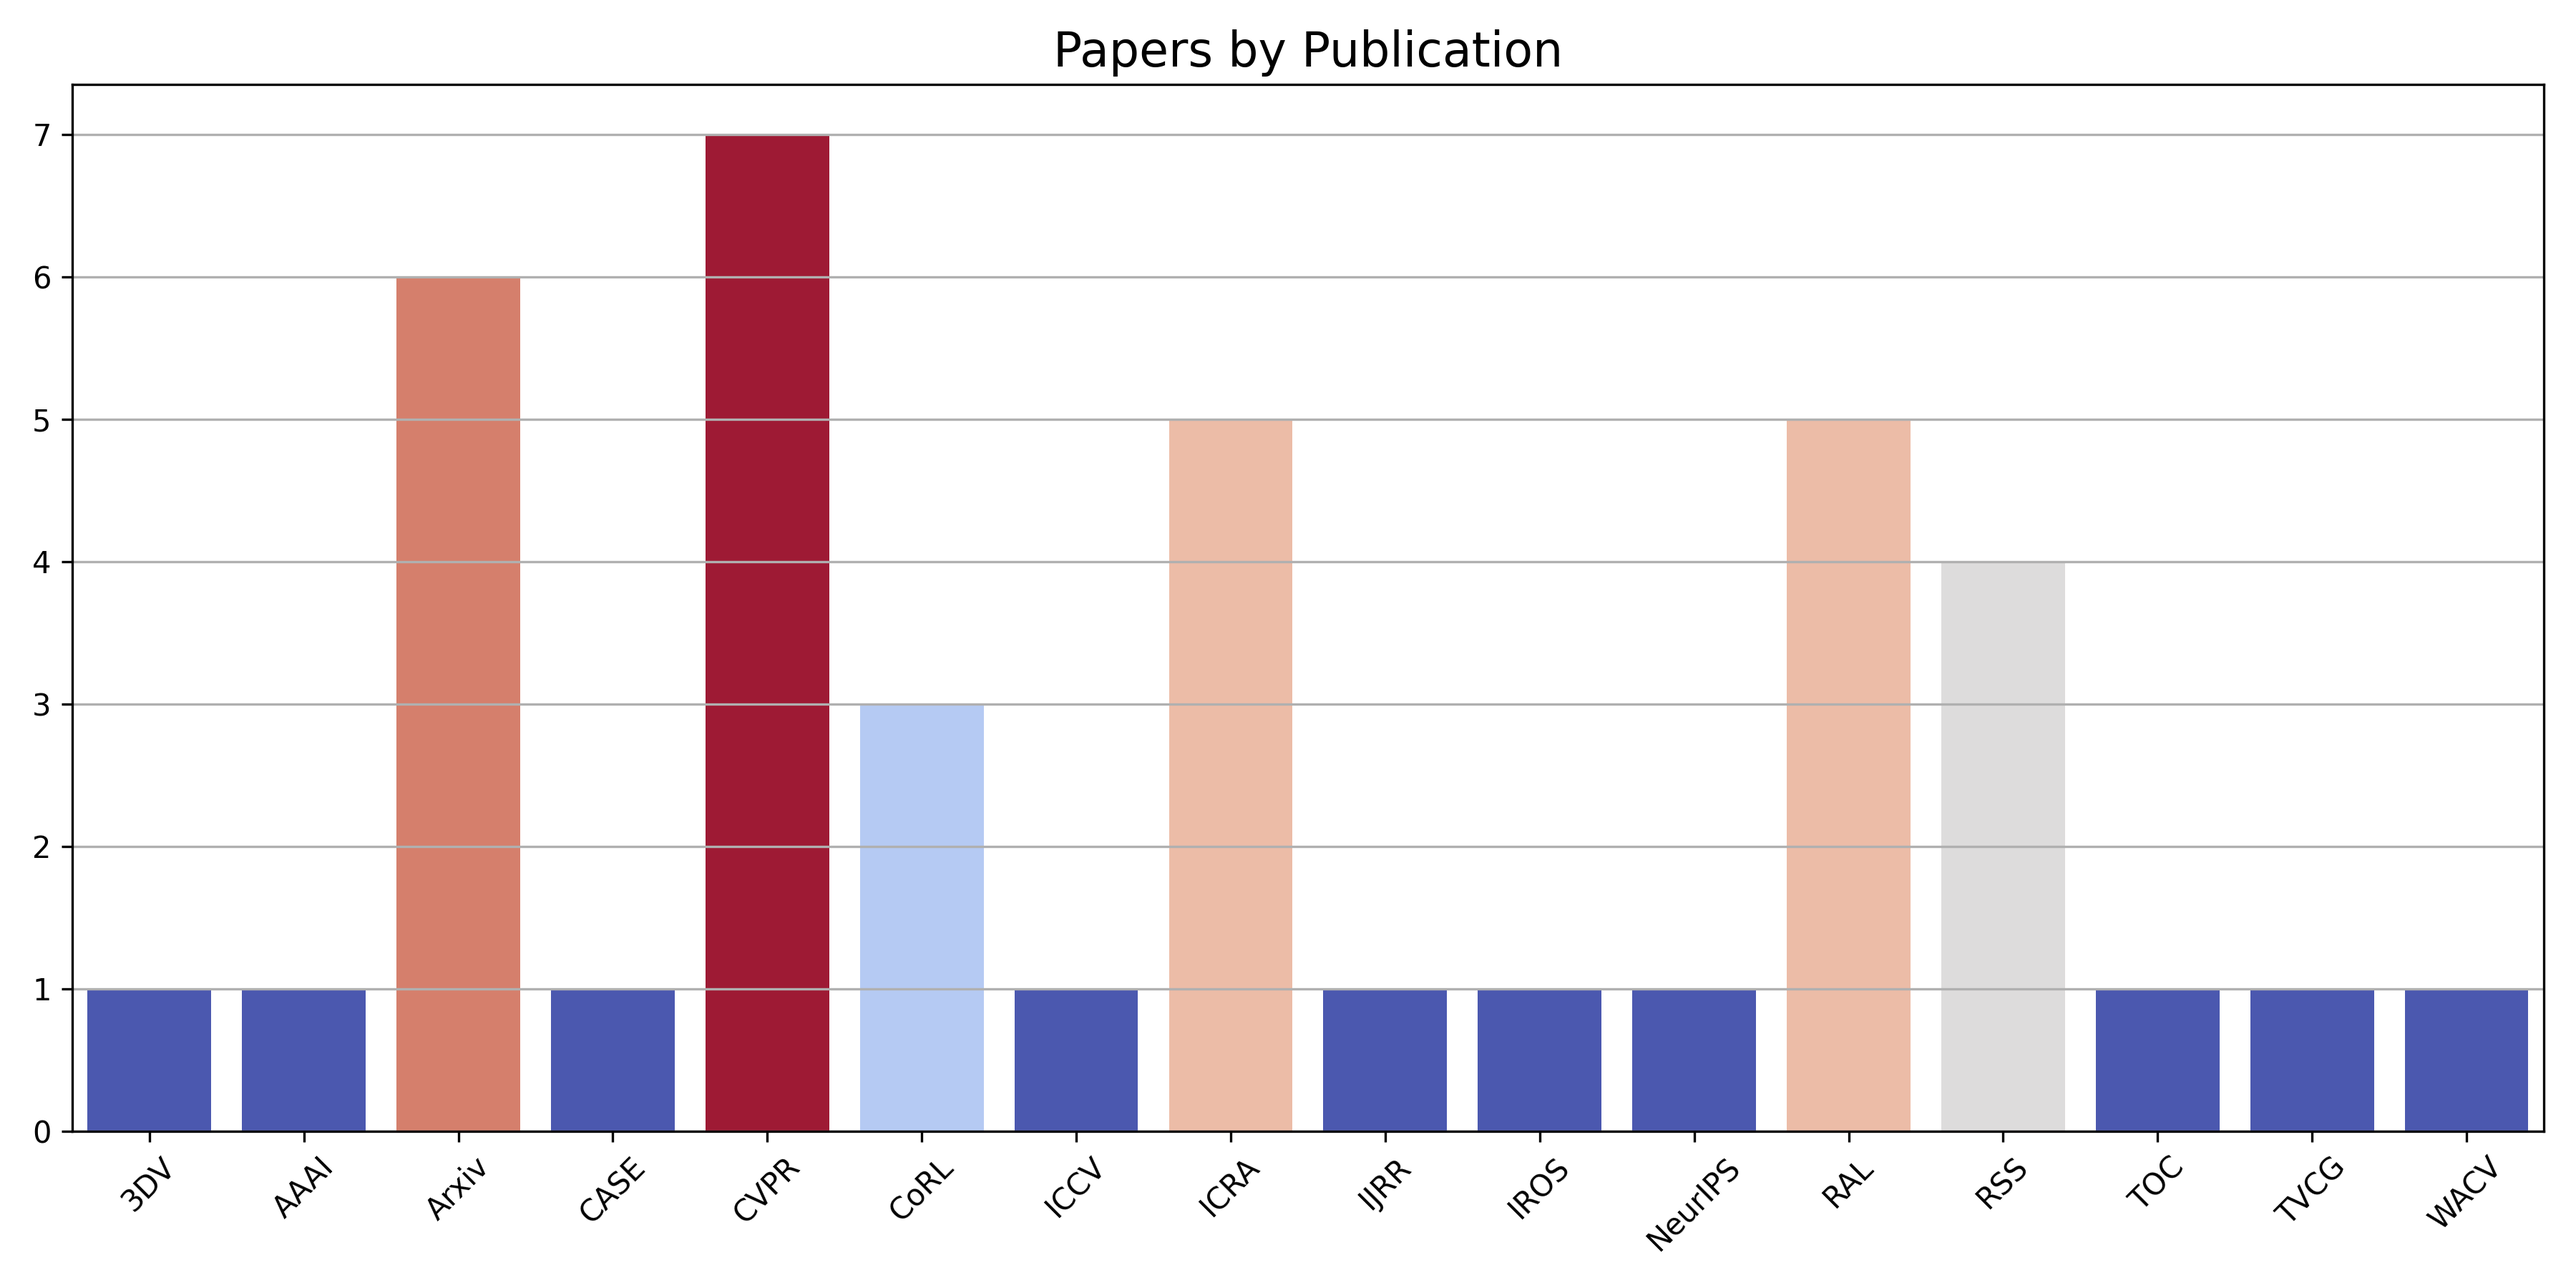
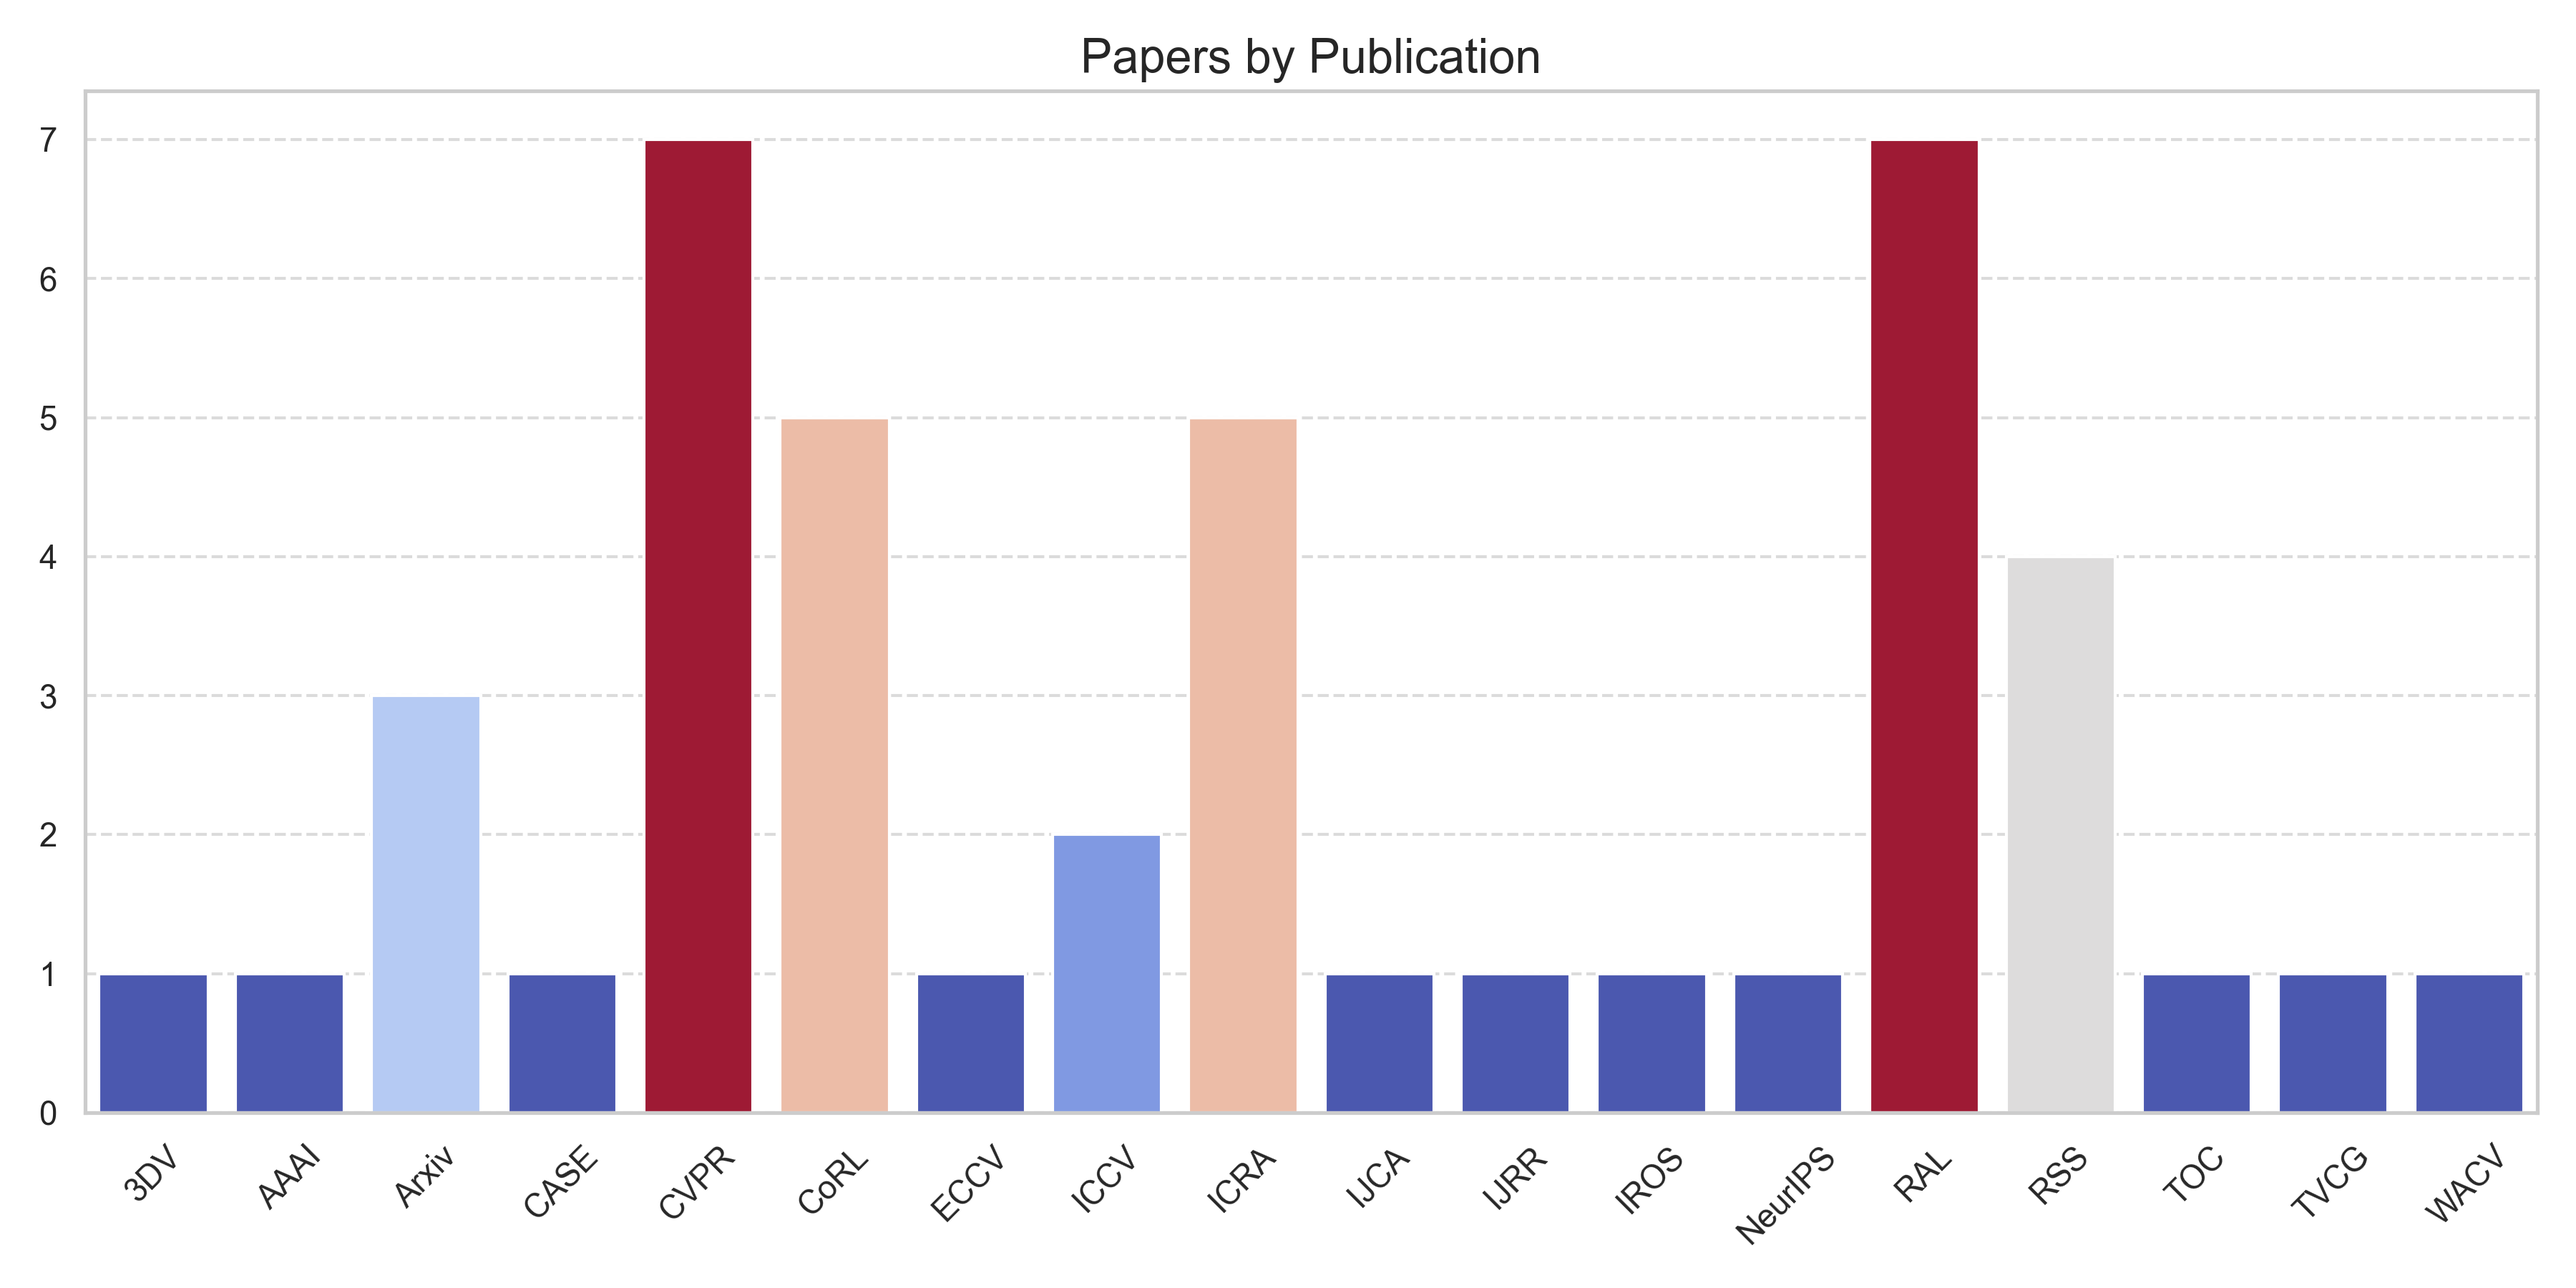
papers update

diff --git a/README.md b/README.md
@@ -20,9 +20,10 @@ This is a curated list of papers on 3D Scene Graphs (3DSGs) generation and appli
 | 2021-06 | CVPR21        | [Exploiting Edge-Oriented Reasoning for 3D Point-based Scene Graph Analysis](http://arxiv.org/abs/2103.05558v2)                    | USYD                | [project](https://sggpoint.github.io/), [github](https://github.com/chaoyivision/SGGpoint)                |
 | 2022-07 | RSS22         | [Extracting Zero-shot Common Sense from Large Language Models for Robot 3D Scene Understanding](http://arxiv.org/abs/2206.04585v2) | MIT                 | -                                                                                                         |
 | 2023-05 | ICRA23        | [3D VSG: Long-term Semantic Scene Change Prediction through 3D Variable Scene Graphs](http://arxiv.org/abs/2209.07896v2)           | ETH                 | [project](https://github.com/ethz-asl/3d_vsg)                                                             |
-| 2024-02 | Arxiv         | [RoboEXP: Action-Conditioned Scene Graph via Interactive Exploration for Robotic Manipulation](http://arxiv.org/abs/2402.15487v1)  | UIUC                | [project](https://jianghanxiao.github.io/roboexp-web/), [github](https://github.com/Jianghanxiao/RoboEXP) |
-| 2024-05 | Arxiv         | [Long-Term Human Trajectory Prediction using 3D Dynamic Scene Graphs](http://arxiv.org/abs/2405.00552v1)                           | MIT                 | [project](https://github.com/MIT-SPARK/LP2)                                                               |
-| 2024-09 | Arxiv         | [SpotLight: Robotic Scene Understanding through Interaction and Affordance Detection](http://arxiv.org/abs/2409.11870v1)           | ETH                 | [project](https://timengelbracht.github.io/SpotLight/)                                                    | 
+| 2024-05 | RAL24         | [Long-Term Human Trajectory Prediction using 3D Dynamic Scene Graphs](http://arxiv.org/abs/2405.00552v1)                           | MIT                 | [project](https://github.com/MIT-SPARK/LP2)                                                               |
+| 2024-09 | Arxiv         | [SpotLight: Robotic Scene Understanding through Interaction and Affordance Detection](http://arxiv.org/abs/2409.11870v1)           | ETH                 | [project](https://timengelbracht.github.io/SpotLight/)                                                    |
+| 2024-10 | ECCV24        | [SceneGraphLoc: Cross-Modal Coarse Visual Localization on 3D Scene Graphs](https://arxiv.org/abs/2404.00469)                       | ETH                 | [project](https://scenegraphloc.github.io/)                                                               |
+| 2024-11 | CoRL24        | [RoboEXP: Action-Conditioned Scene Graph via Interactive Exploration for Robotic Manipulation](http://arxiv.org/abs/2402.15487v1)  | UIUC                | [project](https://jianghanxiao.github.io/roboexp-web/), [github](https://github.com/Jianghanxiao/RoboEXP) | 
 
 ## Generation and Mapping
 | Date    | Publication   | Paper                                                                                                                                                                                                                                                                         | Institute (first)   | Extra                                                                                                                                   |
@@ -37,14 +38,16 @@ This is a curated list of papers on 3D Scene Graphs (3DSGs) generation and appli
 | 2023-06 | CVPR23        | [3D Spatial Multimodal Knowledge Accumulation for Scene Graph Prediction in Point Cloud](https://ieeexplore.ieee.org/document/10204093)                                                                                                                                       | XDU                 | [project](https://cvpr.thecvf.com/virtual/2023/poster/23209)                                                                            |
 | 2023-08 | CASE23        | [3D Scene Graph Prediction on Point Clouds Using Knowledge Graphs](http://arxiv.org/abs/2308.06719v1)                                                                                                                                                                         | UCSD                | -                                                                                                                                       |
 | 2023-08 | RAL23         | [S-Graphs+: Real-time Localization and Mapping leveraging Hierarchical Representations](http://arxiv.org/abs/2212.11770v3)                                                                                                                                                    | UniLu               | [project](https://snt-arg.github.io/s_graphs_docker/), [github](https://github.com/snt-arg/s_graphs_docker)                             |
+| 2023-10 | ICCV23        | [SGAligner: 3D Scene Alignment with Scene Graphs](https://openaccess.thecvf.com/content/ICCV2023/html/Sarkar_SGAligner_3D_Scene_Alignment_with_Scene_Graphs_ICCV_2023_paper.html)                                                                                             | ETH                 | [project](https://sayands.github.io/sgaligner/)                                                                                         |
 | 2023-11 | CoRL23        | [Context-Aware Entity Grounding with Open-Vocabulary 3D Scene Graphs](http://arxiv.org/abs/2309.15940v1)                                                                                                                                                                      | Rutgers             | [project](https://ovsg-l.github.io/), [github](https://github.com/changhaonan/OVSG)                                                     |
 | 2024-01 | WACV24        | [SGRec3D: Self-Supervised 3D Scene Graph Learning via Object-Level Scene Reconstruction](http://arxiv.org/abs/2309.15702v2)                                                                                                                                                   | Bosch               | [project](https://kochsebastian.com/sgrec3d)                                                                                            |
 | 2024-02 | IJRR24        | [Foundations of Spatial Perception for Robotics: Hierarchical Representations and Real-time Systems](https://arxiv.org/abs/2305.07154)                                                                                                                                        | MIT                 | [project](https://github.com/MIT-SPARK/Hydra)                                                                                           |
 | 2024-02 | AAAI24        | [SGFormer: Semantic Graph Transformer for Point Cloud-based 3D Scene Graph Generation](http://arxiv.org/abs/2303.11048v3)                                                                                                                                                     | BJUT                | [project](https://github.com/Andy20178/SGFormer)                                                                                        |
 | 2024-03 | RAL24         | [Language-Grounded Dynamic Scene Graphs for Interactive Object Search with Mobile Manipulation](http://arxiv.org/abs/2403.08605v4)                                                                                                                                            | UniFreiburg         | [project](http://moma-llm.cs.uni-freiburg.de/), [github](https://github.com/robot-learning-freiburg/MoMa-LLM)                           |
 | 2024-03 | 3DV24         | [Lang3DSG: Language-based contrastive pre-training for 3D Scene Graph prediction](http://arxiv.org/abs/2310.16494v1)                                                                                                                                                          | Bosch               | [project](https://kochsebastian.com/lang3dsg)                                                                                           |
-| 2024-04 | Arxiv         | [Clio: Real-time Task-Driven Open-Set 3D Scene Graphs](http://arxiv.org/abs/2404.13696v3)                                                                                                                                                                                     | MIT                 | [project](https://github.com/MIT-SPARK/Clio)                                                                                            |
+| 2024-04 | RAL24         | [Clio: Real-time Task-Driven Open-Set 3D Scene Graphs](http://arxiv.org/abs/2404.13696v3)                                                                                                                                                                                     | MIT                 | [project](https://github.com/MIT-SPARK/Clio)                                                                                            |
 | 2024-05 | ICRA24        | [ConceptGraphs: Open-Vocabulary 3D Scene Graphs for Perception and Planning](http://arxiv.org/abs/2309.16650v1)                                                                                                                                                               | UToronto            | [project](https://concept-graphs.github.io/), [github](https://github.com/concept-graphs/concept-graphs)                                |
+| 2024-05 | IJCARS        | [Holistic OR domain modeling: a semantic scene graph approach](https://link.springer.com/article/10.1007/s11548-023-03022-w)                                                                                                                                                  | TUM                 | [project](https://github.com/egeozsoy/4D-OR)                                                                                            |
 | 2024-06 | CVPR24        | [Open3DSG: Open-Vocabulary 3D Scene Graphs from Point Clouds with Queryable Objects and Open-Set Relationships](http://arxiv.org/abs/2402.12259v2)                                                                                                                            | Bosch               | [project](https://kochsebastian.com/open3dsg), [github](https://github.com/boschresearch/Open3DSG)                                      |
 | 2024-06 | RAL24         | [Indoor and Outdoor 3D Scene Graph Generation via Language-Enabled Spatial Ontologies](http://arxiv.org/abs/2312.11713v2)                                                                                                                                                     | MIT                 | -                                                                                                                                       |
 | 2024-06 | CVPR24        | [CLIP-Driven Open-Vocabulary 3D Scene Graph Generation via Cross-Modality Contrastive Learning](https://openaccess.thecvf.com/content/CVPR2024/papers/Chen_CLIP-Driven_Open-Vocabulary_3D_Scene_Graph_Generation_via_Cross-Modality_Contrastive_Learning_CVPR_2024_paper.pdf) | ECNU                | -                                                                                                                                       |
@@ -66,13 +69,14 @@ This is a curated list of papers on 3D Scene Graphs (3DSGs) generation and appli
 |:--------|:--------------|:-------------------------------------------------------------------------------------------------------------------------------------|:--------------------|:---------------------------------------------------------------------------------------------------------------------------------------------|
 | 2021-11 | CoRL21        | [TASKOGRAPHY: Evaluating robot task planning over large 3D scene graphs](http://arxiv.org/abs/2207.05006v1)                          | UToronto            | [project](https://taskography.github.io/), [github](https://github.com/taskography/taskography)                                              |
 | 2023-11 | CoRL23        | [SayPlan: Grounding Large Language Models using 3D Scene Graphs for Scalable Robot Task Planning](http://arxiv.org/abs/2307.06135v2) | QUT                 | [project](https://sayplan.github.io/)                                                                                                        |
-| 2024-05 | ICRA24        | [Optimal Scene Graph Planning with Large Language Model Guidance](http://arxiv.org/abs/2309.09182v2)                                 | UCSD                | [project](https://existentialrobotics.org/pages/llm-planning), [github](https://github.com/ExistentialRobotics/LLM-Scene-Graph-LTL-Planning) | 
+| 2024-05 | ICRA24        | [Optimal Scene Graph Planning with Large Language Model Guidance](http://arxiv.org/abs/2309.09182v2)                                 | UCSD                | [project](https://existentialrobotics.org/pages/llm-planning), [github](https://github.com/ExistentialRobotics/LLM-Scene-Graph-LTL-Planning) |
+| 2024-11 | CoRL24        | [DELTA: Decomposed Efficient Long-Term Robot Task Planning using Large Language Models](https://arxiv.org/pdf/2404.03275)            | Bosch               | -                                                                                                                                            | 
 
 ## Dataset
 | Date    | Publication   | Paper                                                                                                        | Institute (first)   | Extra                                                                                               |
 |:--------|:--------------|:-------------------------------------------------------------------------------------------------------------|:--------------------|:----------------------------------------------------------------------------------------------------|
 | 2019-10 | ICCV19        | [3D Scene Graph: A Structure for Unified Semantics, 3D Space, and Camera](http://arxiv.org/abs/1910.02527v1) | Stanford            | [project](https://3dscenegraph.stanford.edu/), [github](https://github.com/StanfordVL/3DSceneGraph) |
-| 2020-06 | CVPR20        | [Learning 3D Semantic Scene Graphs from 3D Indoor Reconstructions](http://arxiv.org/abs/2004.03967v1)        | TUM                 | [project](https://3dssg.github.io/)                                                                 | 
+| 2020-06 | CVPR20        | [Learning 3D Semantic Scene Graphs from 3D Indoor Reconstructions](http://arxiv.org/abs/2004.03967v1)        | TUM                 | [project](https://3dssg.github.io/)                                                                 |                                                                 | 
 
 ## Statistics
 ![plots/papers_by_year](plots/papers_by_year.png)
